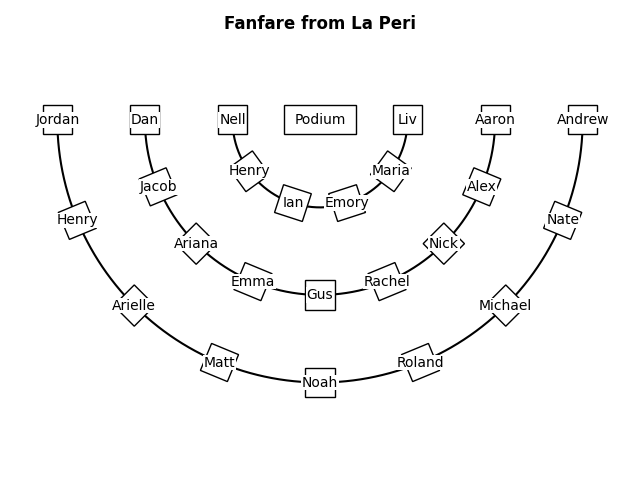
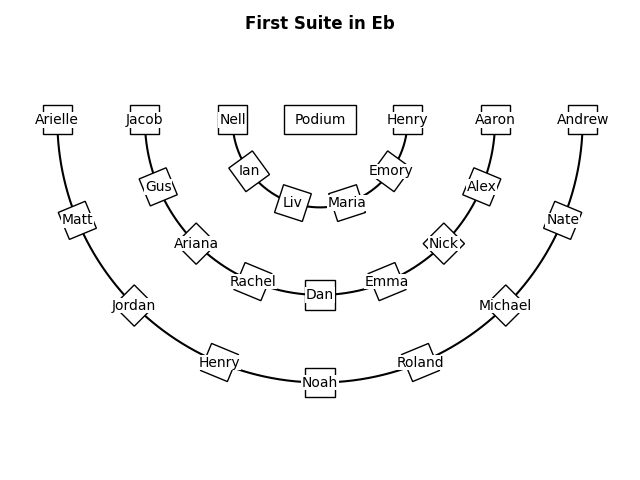
Seating chart is displayed on button click

diff --git a/templates/index.html b/templates/index.html
@@ -8,12 +8,22 @@
 <!-- https://www.geeksforgeeks.org/flask-form-submission-without-page-reload/ -->
 
 <form method="post" id="todo-form">
-    <input type="text" name="todo" id="todo">
-    <button type="submit">submit</button>
+    <input type="submit" name="create_chart">
 </form>
 
+{% if file_url %}
+    <img src="{{ file_url }}">
+{% endif %}
+
+<!-- <script>
+    if ( window.history.replaceState ) {
+        window.history.replaceState( null, null, window.location.href );
+    }
+</script> -->
+
+
 <!--Jquery Cdn -->
-<script src="https://code.jquery.com/jquery-3.5.1.js"></script>
+<!-- <script src="https://code.jquery.com/jquery-3.5.1.js"></script>
 
 <script type="text/javascript">
     $(document).on('submit','#todo-form',function(e) {
@@ -31,6 +41,6 @@
             // }
         })
     });
-</script>
+</script> -->
 
 {% endblock %}

diff --git a/app.py b/app.py
@@ -1,18 +1,31 @@
-from flask import Flask, render_template, request
+from flask import Flask, render_template, request, send_from_directory, url_for, redirect
 from create_chart import UPLOAD_FOLDER, test
-
-import matplotlib.pyplot as plt
+import os
 
 app = Flask(__name__)
-app.config['UPLOAD_FOLDER'] = UPLOAD_FOLDER
+app.config["UPLOAD_FOLDER"] = UPLOAD_FOLDER
+FILENAME = "seating_chart.png"
 
-@app.route("/", methods=["POST","GET"])
+@app.route("/uploads/<filename>")
+def get_file(filename):
+    return send_from_directory(app.config["UPLOAD_FOLDER"], filename)
+
+@app.route("/", methods=["POST", "GET"])
 def index():
-    if request.method == "POST":
-        todo = request.form.get("todo")
-        test()
+    file_url = request.args.get("file_url")
 
-    return render_template("index.html")
+    if request.method == "POST":
+        if "create_chart" in request.form:
+            test()
+            file_url = url_for("get_file", filename=FILENAME)
+            return redirect(url_for("index", file_url=file_url))
+
+    return render_template("index.html", file_url=file_url)
 
 if __name__ == "__main__":
+    path = os.path.join(app.config["UPLOAD_FOLDER"], FILENAME)
+
+    if os.path.exists(path):
+        os.remove(path)
+
     app.run(debug=True)

diff --git a/create_chart.py b/create_chart.py
@@ -7,7 +7,7 @@ from matplotlib.patches import Rectangle
 
 matplotlib.use("Agg") # prevents thread issues with matplotlib and flask
 
-UPLOAD_FOLDER = 'static/uploads/'
+UPLOAD_FOLDER = os.path.join("static", "uploads")
 
 def get_points(radius, step_size):
     """
@@ -103,3 +103,4 @@ def test():
     n_seats = [6, 9, 9] 
 
     show_chart(radii, n_seats, dukas, "Fanfare from La Peri")
+    # show_chart(radii, n_seats, holst, "First Suite in Eb")
